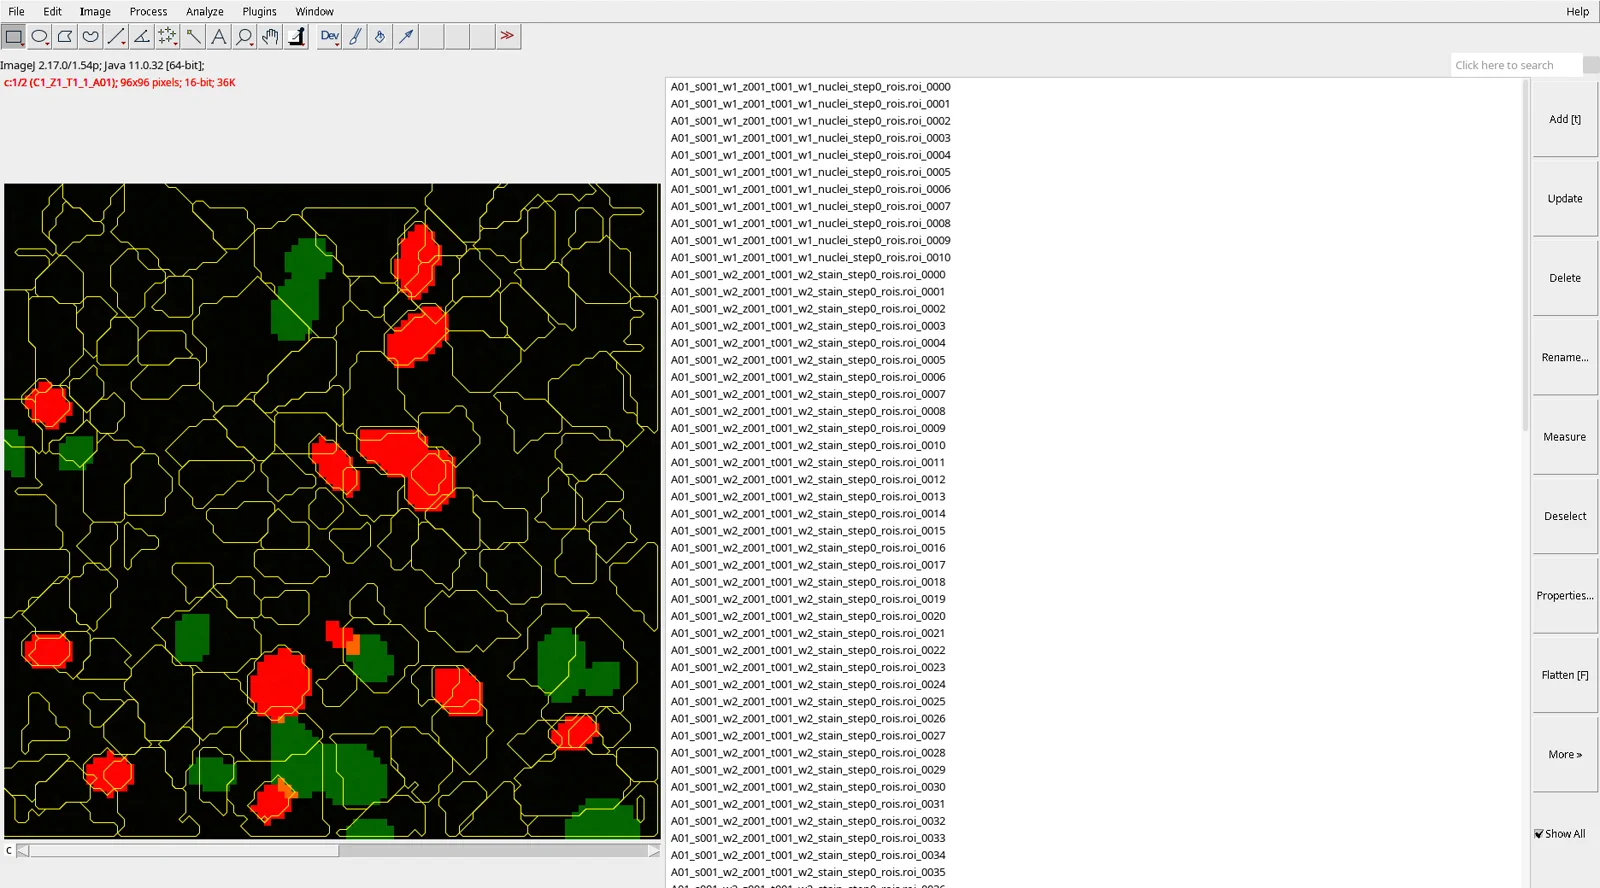
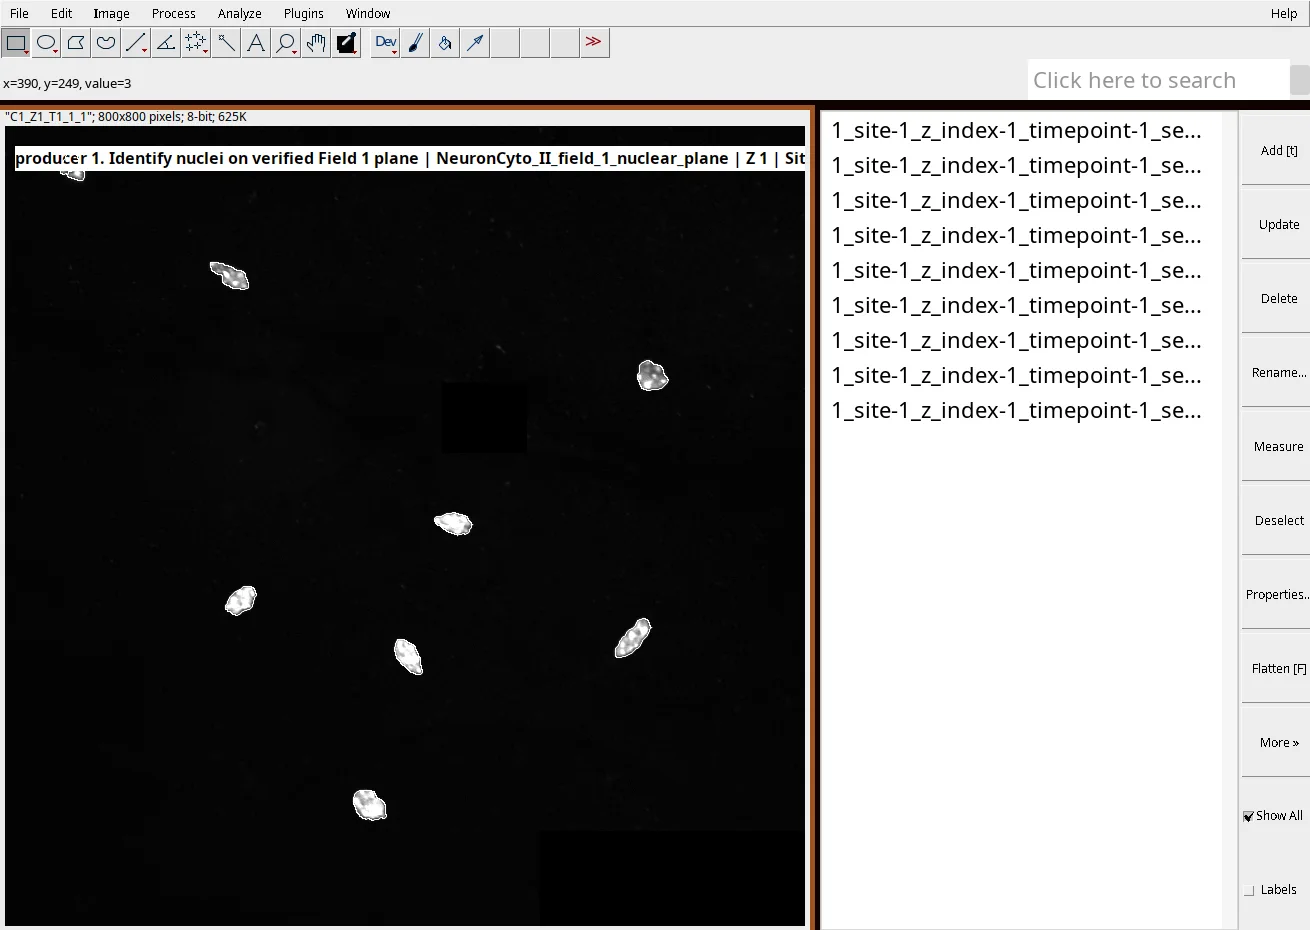
Replace Fiji gallery screenshot with aligned native ROIs

diff --git a/website/index.html b/website/index.html
@@ -182,17 +182,21 @@
             >
               <img
                 src="assets/gallery/fiji-review.webp"
-                width="1600"
-                height="888"
+                width="1310"
+                height="930"
                 loading="lazy"
                 decoding="async"
-                alt="Fiji ImageJ displaying an OpenHCS streamed image with native ROI presentation"
+                alt="Fiji ImageJ showing one NeuronCyto II Field 1 nuclear plane with its nine native segmentation ROI entries"
               >
             </a>
             <figcaption>
               <span class="gallery-label">Fiji</span>
-              <h3>Inspect results in Fiji</h3>
-              <p>OpenHCS sends the same image and ROIs to Fiji/ImageJ.</p>
+              <h3>Review matching ROIs in Fiji</h3>
+              <p>
+                OpenHCS streams one bound Field 1 nuclear plane and its nine
+                segmentation ROIs together. The native outlines follow the
+                displayed nuclei.
+              </p>
             </figcaption>
           </figure>
 

diff --git a/tests/unit/test_build_website.py b/tests/unit/test_build_website.py
@@ -361,7 +361,9 @@ def test_landing_page_uses_factual_copy_and_readable_proportions():
     assert "Open High-Content Image Analysis" not in html
     assert "ROI selection navigates the Z stack" in html
     assert "See endpoint startup while the request is running" in html
-    assert "Inspect results in Fiji" in html
+    assert "Review matching ROIs in Fiji" in html
+    assert "one bound Field 1 nuclear plane" in normalized_html
+    assert "native outlines follow the displayed nuclei" in normalized_html
     assert "View images, ROIs, and measurements" in html
     assert "Pipeline review" not in html
     assert "interactive review" not in html
@@ -480,15 +482,17 @@ def test_release_gallery_media_record_matches_published_assets():
         (asset_root / "release-media-record.json").read_text(encoding="utf-8")
     )
 
-    assert record["schema_version"] == "openhcs.release-media.v1"
+    assert record["schema_version"] == "openhcs.release-media.v2"
     assert record["capture_contract"]["visible_interaction_driver"] == (
-        "local MCP calls"
+        "local MCP calls and native viewer controls"
     )
     assert record["capture_contract"]["mouse_visible"] is False
+    assert set(record["capture_contract"]["source_formats"]) == {"FFV1", "PNG"}
     assert {capture["id"] for capture in record["captures"]} == {
         "zmq-startup-compile",
         "napari-roi-navigation",
         "lazy-inheritance-context",
+        "fiji-native-roi-alignment",
     }
     for capture in record["captures"]:
         assert re.fullmatch(r"[0-9a-f]{64}", capture["source"]["sha256"])
@@ -500,6 +504,13 @@ def test_release_gallery_media_record_matches_published_assets():
                     hashlib.file_digest(artifact, "sha256").hexdigest()
                     == (published["sha256"])
                 )
+    fiji_capture = next(
+        capture
+        for capture in record["captures"]
+        if capture["id"] == "fiji-native-roi-alignment"
+    )
+    assert fiji_capture["scientific_evidence"]["source_plane_count"] == 1
+    assert fiji_capture["scientific_evidence"]["roi_count"] == 9
 
 
 def test_neurite_showcase_edit_record_matches_source_and_published_assets():
@@ -560,6 +571,7 @@ def test_gallery_uses_semantic_accessible_media_and_stable_paths():
     assert "five-phase compilation" not in html
     assert "Napari scrolls the table, highlights the native ROI" in html
     assert "provenance link explicit in both directions" in html
+    assert "native outlines follow the" in html
     assert "BSD-3-Clause" in html
     assert (
         "https://github.com/CellProfiler/examples/tree/"
